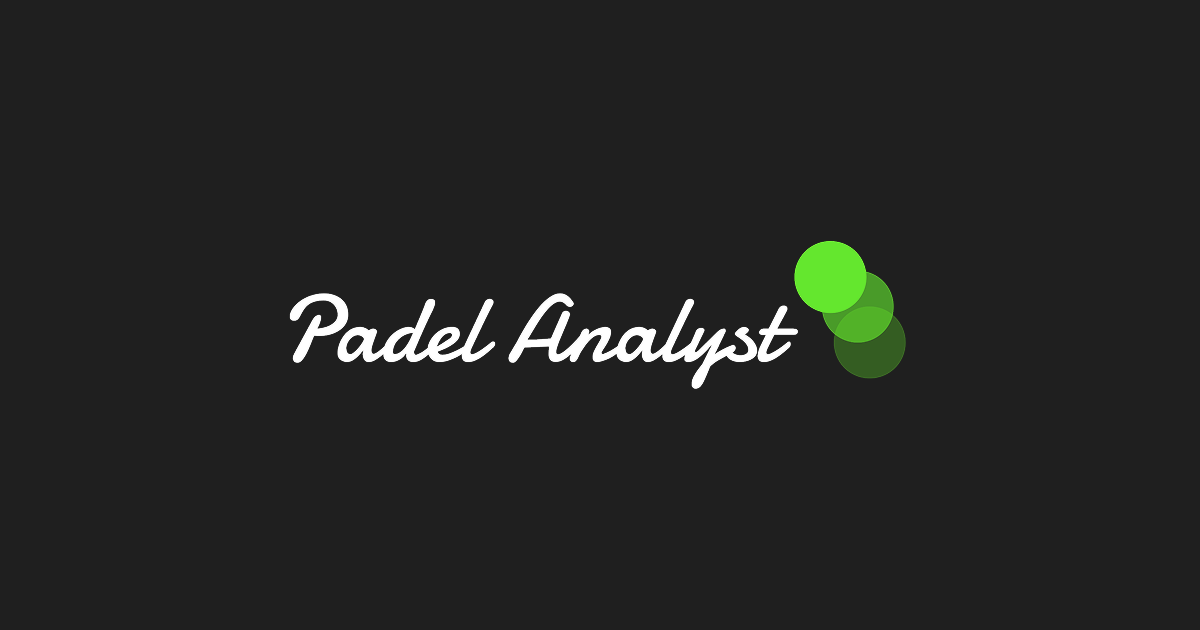
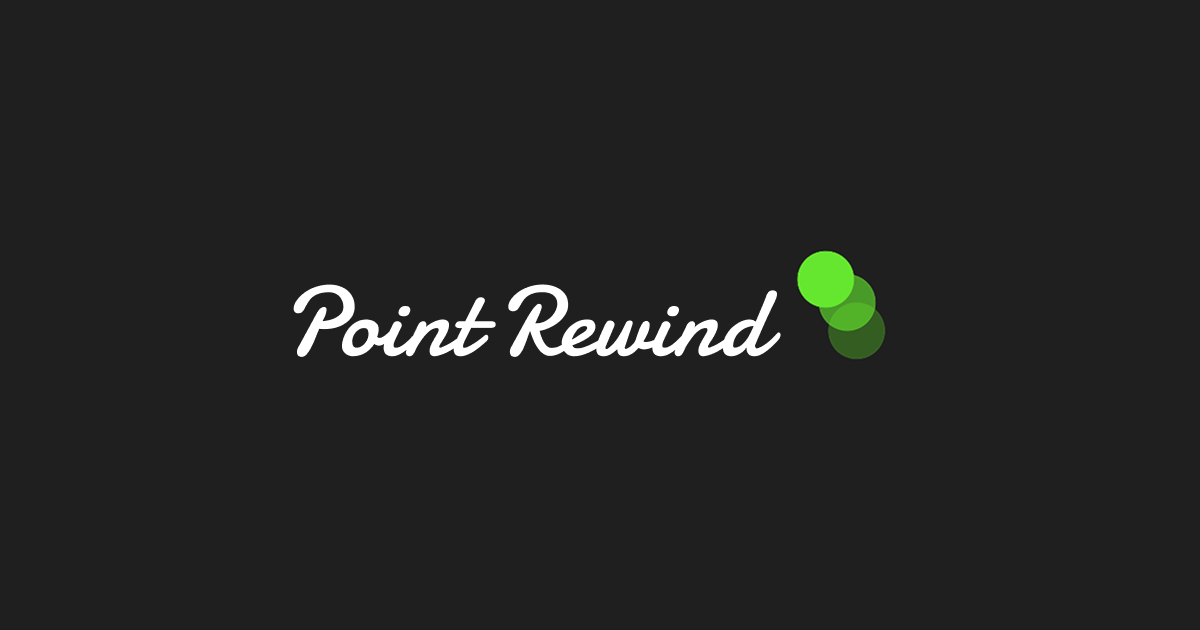
dasdsa

Changed region(s): [[0.2467, 0.3619, 0.7708, 0.6333]]

diff --git a/app/components/blocks/MobileNavbar.js b/app/components/blocks/MobileNavbar.js
@@ -54,8 +54,8 @@ export default function MobileNav() {
         <div className="flex-1">
           {/* Use a light/dark logo variant if you have both; defaulting to the same */}
           <img
-            src="/img/logo-padel.png"
-            alt="The Padel Analyst"
+            src="/img/logo-2.png"
+            alt="Point Rewind"
             className="h-8 w-auto"
           />
         </div>
@@ -97,8 +97,8 @@ export default function MobileNav() {
             {/* Menu header */}
             <div className="flex items-center justify-between w-full px-1">
               <img
-                src="/img/logo-padel.png"
-                alt="The Padel Analyst"
+                src="/img/logo-2.png"
+                alt="Point Rewind"
                 className="h-8 w-auto"
               />
               <button

diff --git a/app/layout.js b/app/layout.js
@@ -1,11 +1,11 @@
 import "./globals.css";
 
 export const metadata = {
-  title: "Padel Analyst • Online Padel Coaching Made Easy",
+  title: "Point Rewind • Online Padel Coaching Made Easy",
   description:
     "Send us your match clips and get expert feedback tailored to your game.",
   openGraph: {
-    title: "Padel Analyst • Online Padel Coaching Made Easy",
+    title: "Point Rewind • Online Padel Coaching Made Easy",
     description:
       "Send us your match footage and get expert feedback tailored to your game.",
     images: [
@@ -13,7 +13,7 @@ export const metadata = {
         url: "/img/og.png",
         width: 1200,
         height: 630,
-        alt: "Padel Analyst • Online Padel Coaching Made Easy",
+        alt: "Point Rewind • Online Padel Coaching Made Easy",
       },
     ],
   },

diff --git a/app/components/sections/Navbar.js b/app/components/sections/Navbar.js
@@ -20,7 +20,7 @@ const Navbar = () => {
         <nav className="w-full h-auto bg-primary p-10">
           <div className="w-full max-w-[1200px] mx-auto flex items-center justify-between">
             <div className="flex flex-1">
-              <img src="/img/logo-padel.png" className="w-[180px] pb-3" />
+              <img src="/img/logo-2.png" className="w-[180px] pb-3" />
               {/* <Logo /> */}
             </div>
             <div className="flex items-center space-x-8 font-barlow font-bold text-sm uppercase text-white/80 tracking-[0.06em]">

diff --git a/app/components/sections/Footer.js b/app/components/sections/Footer.js
@@ -44,7 +44,7 @@ const Footer = () => {
         </div>
       </div>
 
-      <div className="absolute bottom-0 left-1/2 -translate-x-1/2 lg:translate-y-6 translate-y-1 w-full px-7 md:px-0 max-w-5xl">
+      <div className="absolute bottom-0 left-1/2 -translate-x-1/2 lg:translate-y-2 translate-y-1 w-full px-7 md:px-0 max-w-5xl">
         <img src="/img/footer-logo.png" className="w-full opacity-10"></img>
       </div>
     </footer>
